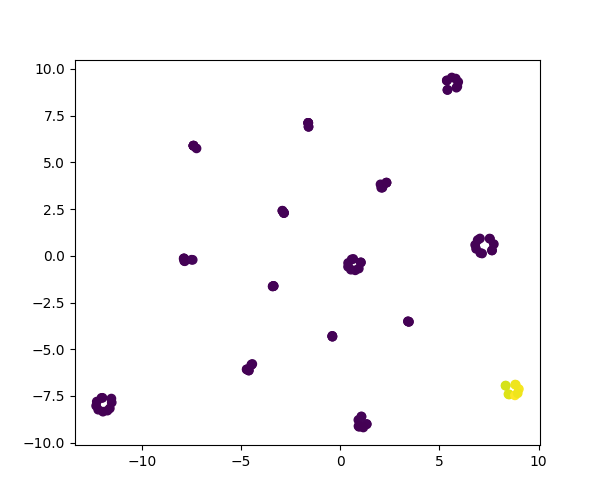
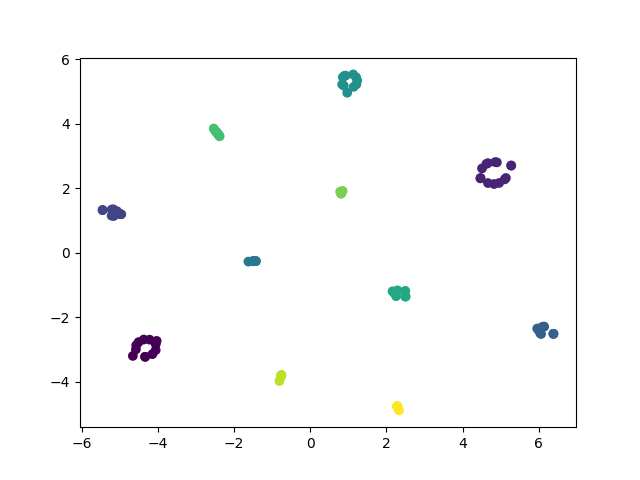
using eucledian geometry

diff --git a/src/templates/Recommended.html b/src/templates/Recommended.html
@@ -13,7 +13,7 @@
           </div>
           <div class="content">
             <div class="details">
-              <div class="name"> {{i.book.title}} <br> Score: {{ i.score }}</div>
+              <div class="name"> {{i.book.title}} <br> Score: {{ i.score }} %</div>
             </div>
           </div>
         </div>

diff --git a/src/code/trial.py b/src/code/trial.py
@@ -31,13 +31,28 @@ def remove_stops(text : string, stops :list) -> string:
     """
     #remove stop words
     words = text.split()
-    final = ' '.join([word for word in words if word not in stops])
-
-    #remove extra spaces
-    while "  " in final:
-        final = final.replace("  ", " ")
+    final = ' '.join([word for word in words if (word not in stops
+                      and word not in string.punctuation)])
 
     return final
+
+def remove_nums(text : string) -> string:
+    """ Remove numbers from the text
+
+    Parameters:
+        text (str): the text to be cleaned
+
+    Returns:
+        str: the cleaned text
+    """
+    txt = text.split()
+    for i in txt:
+        try:
+            int(i)
+            txt.remove(i)
+        except:
+            pass
+    return ' '.join(txt)
 
 def clean_text(text : string) -> string:
     """ Clean the text by removing stop words and lemmatizing the words
@@ -59,6 +74,7 @@ def clean_text(text : string) -> string:
     words = cleaned.split()
     lemmatized = [lemmatizer.lemmatize(word) for word in words]
     cleaned = ' '.join(lemmatized)
+    cleaned = remove_nums(cleaned)
 
     return cleaned
 
@@ -87,18 +103,24 @@ Returns:
     lda_components = model.components_
     terms = count_vectorizer.get_feature_names_out()
 
-    #print the topics
-    for i, topic in enumerate(lda_components):
-        print(f"Top words for topic {i}\n")
-        print([terms[i] for i in topic.argsort()[-10:]])
-        print("\n")
+    #create json file with the topics
+    with open(os.path.join(directory, 'topics.json'), 'w') as f:
+        f.write("{\n")
+        for i, topic in enumerate(lda_components):
+            f.write(f'"{i}": {{"topic": {i}, "words": {str([terms[i] for i in topic.argsort()[-10:]])}}}')
+            if i != num_topics-1:
+                f.write(",\n")
+        f.write("\n}")
 
     with open(os.path.join(directory, 'lda_matrix.pkl'), 'wb') as f:
         pickle.dump(lda_matrix, f)
 
     #build document-topic matrix
     doc_topic = pd.DataFrame(lda_matrix, columns=["Topic "+str(i) for i in range(num_topics)], index=["Doc "+str(i) for i in range(len(documents))])
-    print(doc_topic)
+
+    #save doc_topic as json
+    doc_topic.to_json(os.path.join(directory, 'doc_topic.json'))
+
 
 
 def Amount_of_topics(documents):
@@ -130,11 +152,21 @@ def update(texts):
     #clean data
     texts = [clean_text(i) for i in texts]
     lda_model(texts, Amount_of_topics(texts))
+    plot_scatter_clusters()
 
 def determine_topics(vector):
+    """
+    Determine the most relevant topics in a vector
+
+    Parameters:
+        vector (list): the vector to be analyzed
+
+    Returns:
+        list: the indices of the most relevant topics
+    """
     tops = np.argsort(vector)[::-1]
     tops = tops[:3]
-    if vector[tops[2]] > 0.3:
+    if vector[tops[2]] > 0.2:
         return tops
     return tops[:2]
 
@@ -183,15 +215,15 @@ def make_suggestion(docs_read):
 
     #order the docs not read by similarity to the avg of docs read
     def similarity(x):
-        #cosine similarity between vectors
-        return np.dot(x, avg_read) / (np.linalg.norm(x) * np.linalg.norm(avg_read))
+        #eucledean distance
+        return np.linalg.norm(avg_read - x)
 
     dict = {}
 
     for i in docs_not_read_ind:
         dict[i] = similarity(model[i])
 
-    docs_not_read = sorted(dict.items(), key=lambda x: x[1], reverse=True)
+    docs_not_read = sorted(dict.items(), key=lambda x: x[1])
 
     print(avg_read)
     ind = [i[0] for i in docs_not_read][:5]
@@ -199,7 +231,7 @@ def make_suggestion(docs_read):
     print(rows)
 
     #return indices of the most similar docs
-    return [i[0] for i in docs_not_read][:5] , [i[1] for i in docs_not_read][:5]
+    return [i[0] for i in docs_not_read][:5] , [100 - i[1] * 100 for i in docs_not_read][:5]
 
 def plot_scatter_clusters():
     """
@@ -212,14 +244,20 @@ def plot_scatter_clusters():
     with open(os.path.join(directory, 'lda_matrix.pkl'), 'rb') as f:
         model = pickle.load(f)
 
-    tsne = TSNE(n_components=2, random_state=0, perplexity=15)
+    #using k-means to cluster the data
+    from sklearn.cluster import KMeans
 
-    X_2d = tsne.fit_transform(model)
+    kmeans = KMeans(n_clusters=10, random_state=0).fit(model)
+    labels = kmeans.labels_
 
-    plt.figure(figsize=(6, 5))
-    plt.scatter(X_2d[:, 0], X_2d[:, 1], c=model[:, 0], cmap='viridis')
+    #plot the model coloring the clusters according to their labels
+    tsne = TSNE(n_components=2, random_state=0)
+    features = tsne.fit_transform(model)
+    plt.scatter(features[:, 0], features[:, 1], c=labels)
+    plt.savefig(os.path.join('static', 'clusters.png'))
 
-    plt.savefig(os.path.join(os.getcwd(),'static','clusters.png'))
+
+
 
 
 
